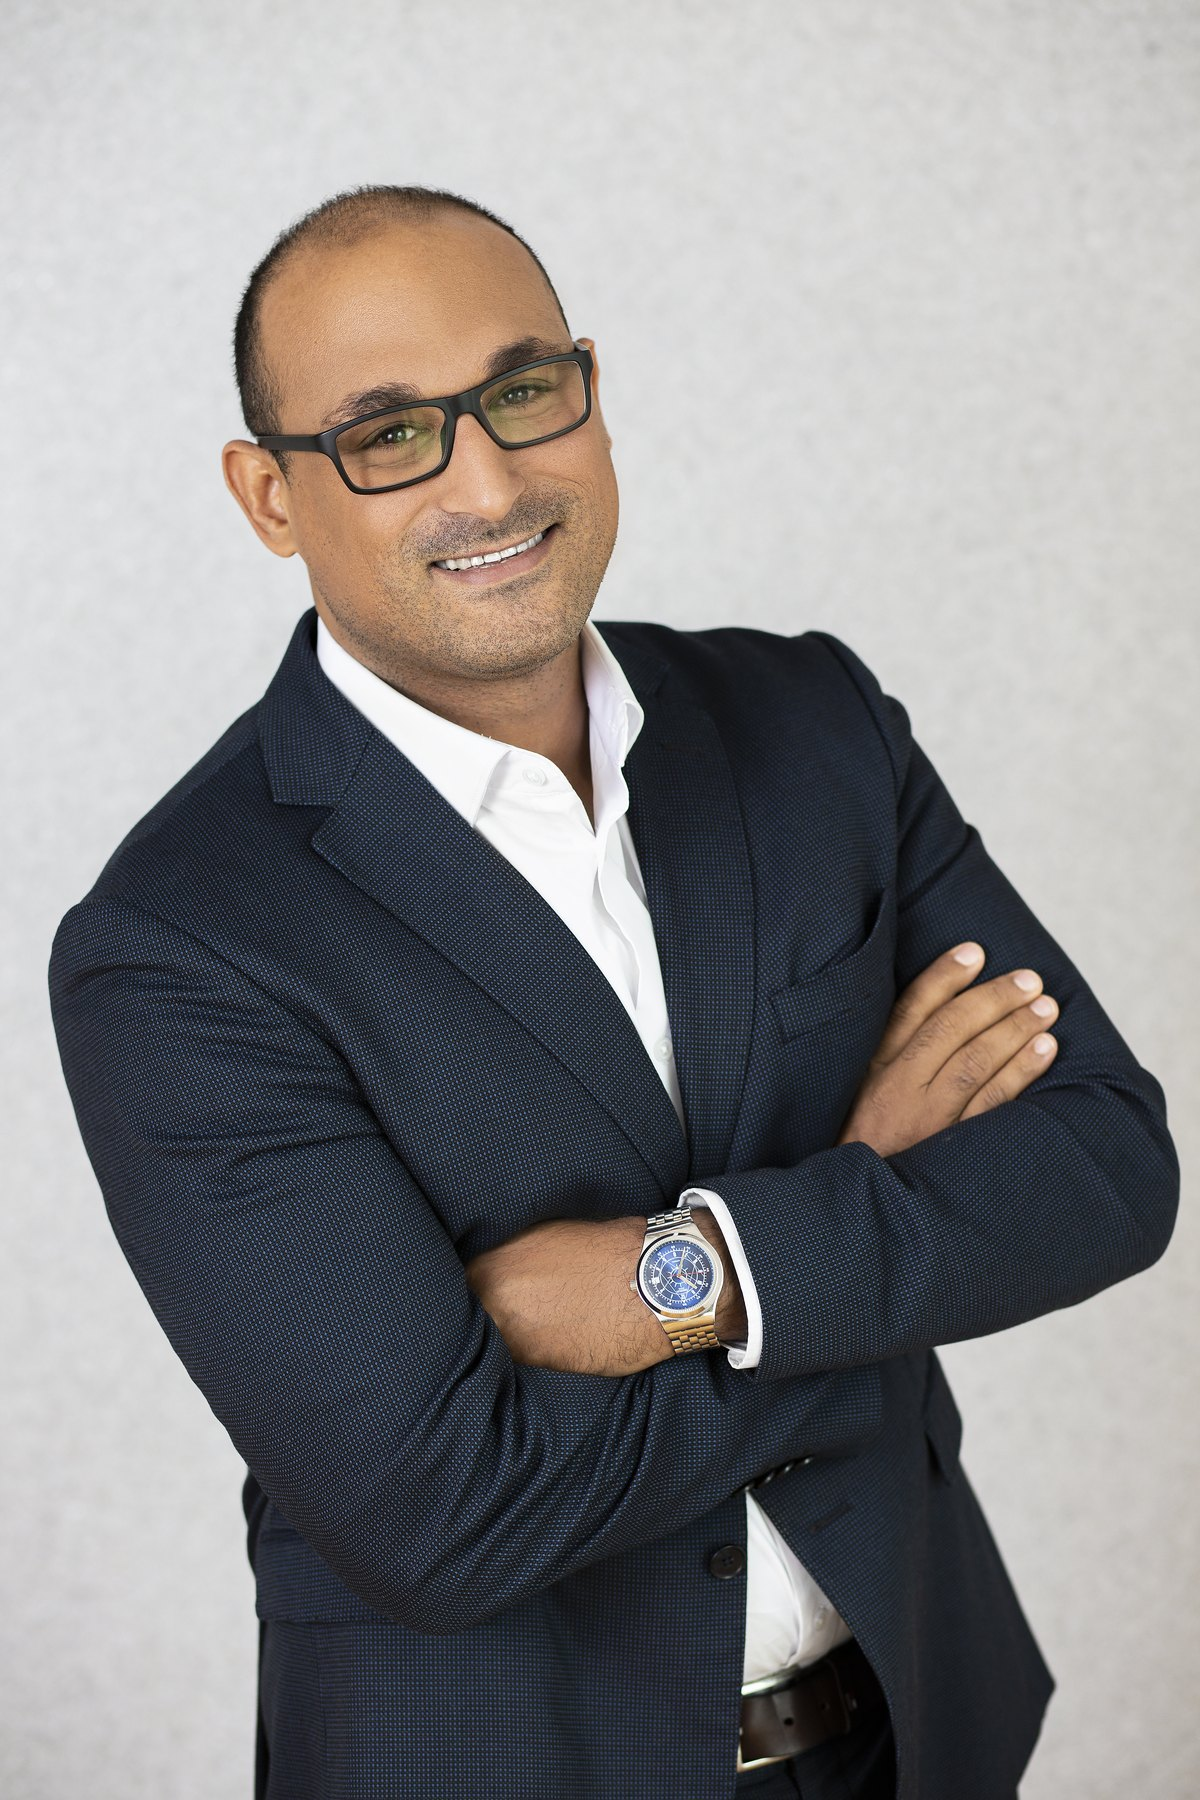
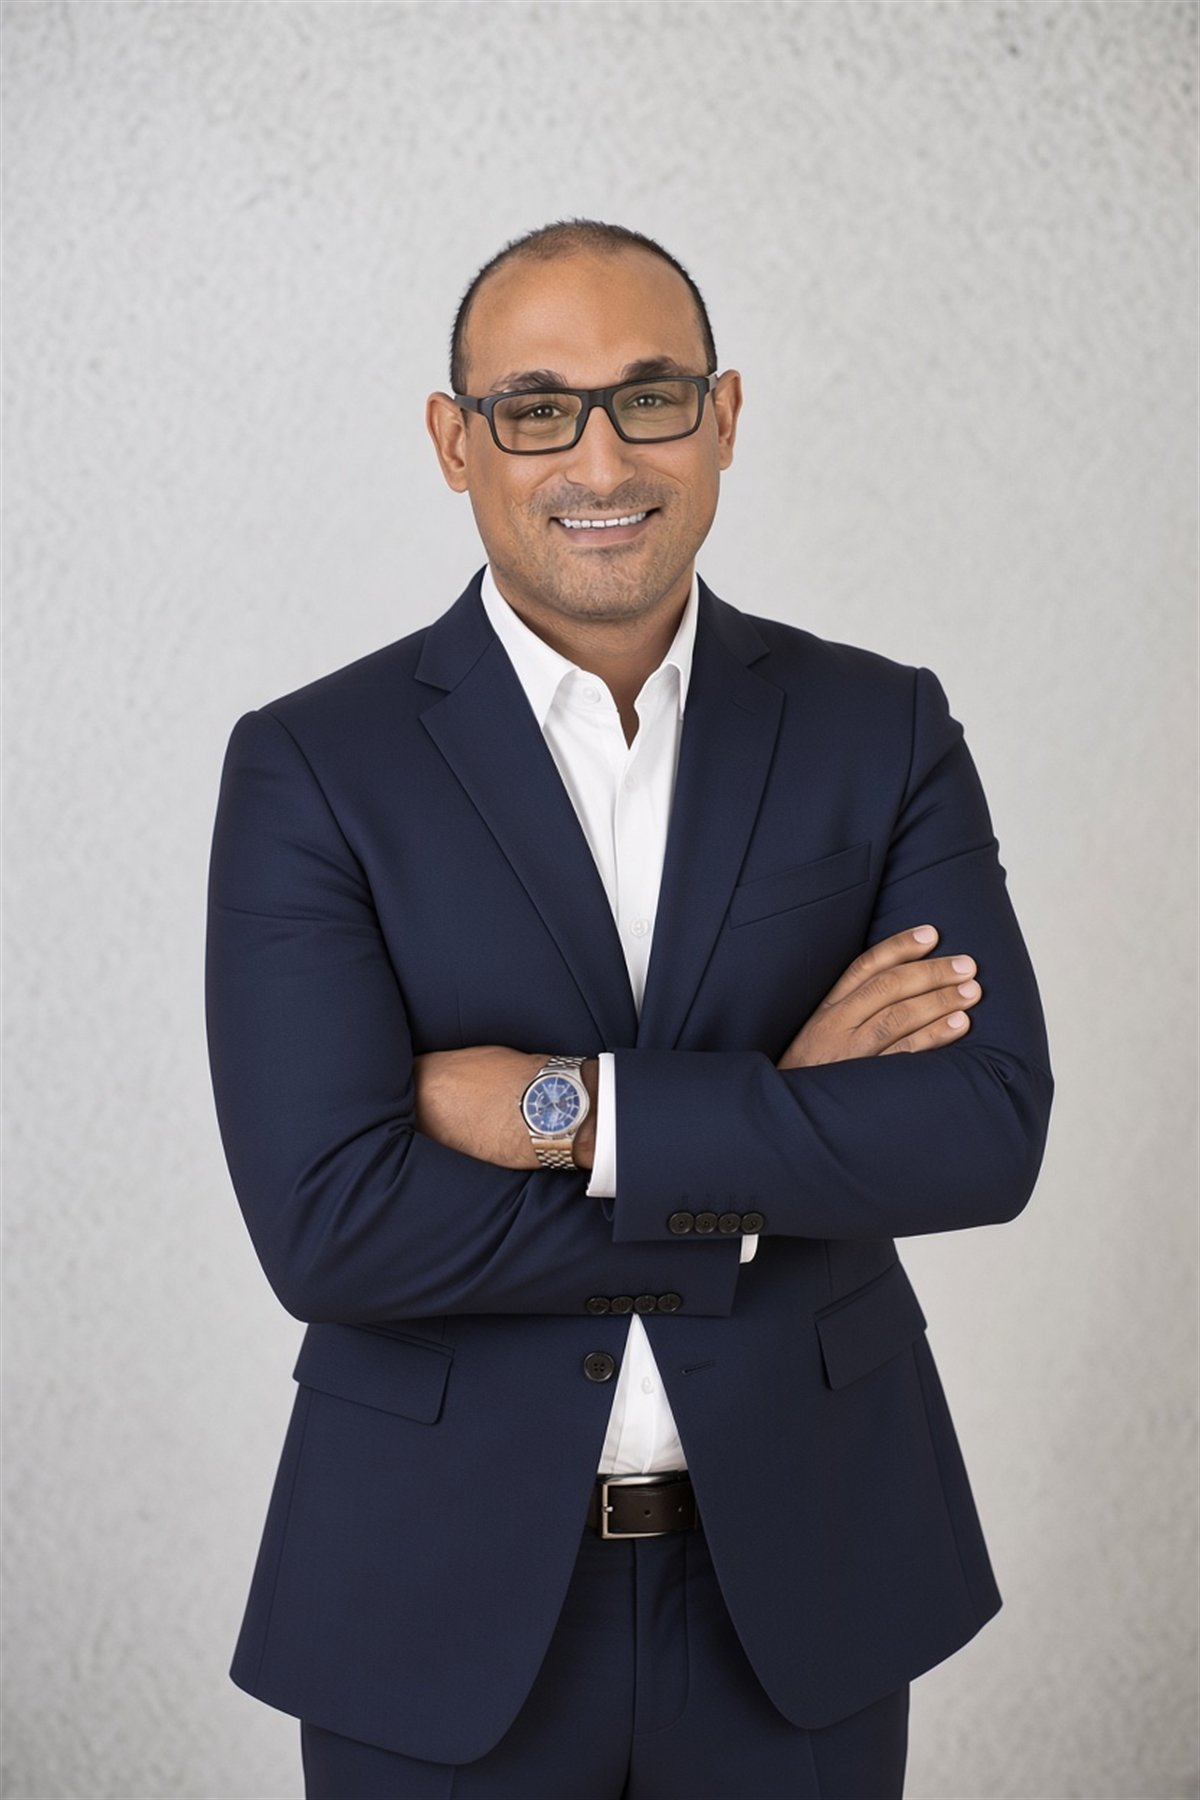
Gründerportrait: KI-generiertes Bild (Grok) ersetzt Foto Anna Seibel
Beide srcset-Fassungen (800/1200) aus der 832×1248-Quelle neu erzeugt
(2:3 unverändert, 1200er ist eine moderate Hochskalierung).
Bildunterschrift ohne Nachweiszeile, Bildnachweis im Impressum
auf KI-Herkunft umgestellt, sprachen.js-Schlüssel nachgezogen (DE/EN/AR).

diff --git a/assets/js/sprachen.js b/assets/js/sprachen.js
@@ -194,7 +194,6 @@
       'Heute verbindet er die Handschrift des Architekten mit eigener Prüftechnik. Sie arbeiten direkt mit ihm, ohne Zwischenebene. Was ein großes Büro über Personal löst, löst das BIT-Atelier über Werkzeuge: eine im Haus entwickelte Prüf-Engine für Kollisionen und AIA-Konformität — statt zugekaufter Lizenzsoftware.':
         'Today he combines the hand of the architect with his own checking technology. You work with him directly, with no layer in between. What a large practice solves with staff, BIT-Atelier solves with tools: an in-house checking engine for clashes and requirements compliance — instead of bought-in licensed software.',
       'Mohamed Elmokadem · Architekt, M.Sc. (TUM) ClimaDesign': 'Mohamed Elmokadem · Architect, M.Sc. (TUM) ClimaDesign',
-      'Foto: Anna Seibel': 'Photo: Anna Seibel',
       'Ausgewählte Stationen': 'Selected positions',
       'Über <em>15 Jahre</em> Planung und Projektleitung.': 'More than <em>15 years</em> of design and project management.',
       'Vom geförderten Wohnungsbau in Nürnberg bis zu Sanierungsprojekten deutscher Institutionen in Kairo.':
@@ -265,9 +264,7 @@
       'Intel-Version <a href="https://github.com/mozzi86/NovaPDF/releases/latest/download/BIT-Nova-PDF-x64.dmg" style="color:var(--accent)">hier</a>.':
         'Intel version <a href="https://github.com/mozzi86/NovaPDF/releases/latest/download/BIT-Nova-PDF-x64.dmg" style="color:var(--accent)">here</a>.',
       'Kostenlos · quelloffen entwickelt im BIT-Atelier · alle Versionen <a href="https://github.com/mozzi86/NovaPDF/releases" style="color:var(--accent)">auf GitHub</a>. Die Apps sind nicht signiert bzw. notarisiert — Windows SmartScreen bzw. macOS Gatekeeper beim ersten Start über „Trotzdem ausführen" / Rechtsklick → „Öffnen" bestätigen.':
-        'Free · developed openly at BIT-Atelier · all releases <a href="https://github.com/mozzi86/NovaPDF/releases" style="color:var(--accent)">on GitHub</a>. The apps are not code-signed or notarised — on first launch confirm through Windows SmartScreen (“Run anyway”) or macOS Gatekeeper (right-click → “Open”).',
-      'Mohamed Elmokadem · Architekt, M.Sc. (TUM) ClimaDesign<br> <span class="nachweis">Foto: Anna Seibel</span>':
-        'Mohamed Elmokadem · Architect, M.Sc. (TUM) ClimaDesign<br> <span class="nachweis">Photo: Anna Seibel</span>'
+        'Free · developed openly at BIT-Atelier · all releases <a href="https://github.com/mozzi86/NovaPDF/releases" style="color:var(--accent)">on GitHub</a>. The apps are not code-signed or notarised — on first launch confirm through Windows SmartScreen (“Run anyway”) or macOS Gatekeeper (right-click → “Open”).'
     },
 
     ar: {
@@ -453,7 +450,6 @@
         'اليوم يجمع بين بصمة المعماري وتقنية تدقيق طوَّرها بنفسه. تعملون معه مباشرة، بلا وسيط. وما يحلُّه مكتب كبير بالكوادر، يحلُّه BIT-Atelier بالأدوات: محرِّك تدقيق مُطوَّر داخلياً للتعارضات ومطابقة المتطلبات — بدلاً من برامج مُرخَّصة مُشتراة.',
       'Mohamed Elmokadem · Architekt, M.Sc. (TUM) ClimaDesign': 'محمد المقدم · مهندس معماري، ماجستير (جامعة ميونخ التقنية) ClimaDesign',
       'Mohamed Elmokadem': 'محمد المقدم',
-      'Foto: Anna Seibel': 'تصوير: Anna Seibel',
       'Ausgewählte Stationen': 'محطات مختارة',
       'Über <em>15 Jahre</em> Planung und Projektleitung.': 'أكثر من <em>15 عاماً</em> في التصميم وإدارة المشاريع.',
       'Vom geförderten Wohnungsbau in Nürnberg bis zu Sanierungsprojekten deutscher Institutionen in Kairo.':
@@ -523,9 +519,7 @@
       'Intel-Version <a href="https://github.com/mozzi86/NovaPDF/releases/latest/download/BIT-Nova-PDF-x64.dmg" style="color:var(--accent)">hier</a>.':
         'نسخة Intel <a href="https://github.com/mozzi86/NovaPDF/releases/latest/download/BIT-Nova-PDF-x64.dmg" style="color:var(--accent)">من هنا</a>.',
       'Kostenlos · quelloffen entwickelt im BIT-Atelier · alle Versionen <a href="https://github.com/mozzi86/NovaPDF/releases" style="color:var(--accent)">auf GitHub</a>. Die Apps sind nicht signiert bzw. notarisiert — Windows SmartScreen bzw. macOS Gatekeeper beim ersten Start über „Trotzdem ausführen" / Rechtsklick → „Öffnen" bestätigen.':
-        'مجاني · مُطوَّر بشكل مفتوح في BIT-Atelier · جميع الإصدارات <a href="https://github.com/mozzi86/NovaPDF/releases" style="color:var(--accent)">على GitHub</a>. التطبيقات غير موقَّعة رقمياً — عند أول تشغيل أكِّد عبر Windows SmartScreen («تشغيل على أي حال») أو macOS Gatekeeper (نقر بالزر الأيمن ← «فتح»).',
-      'Mohamed Elmokadem · Architekt, M.Sc. (TUM) ClimaDesign<br> <span class="nachweis">Foto: Anna Seibel</span>':
-        'محمد المقدم · مهندس معماري، ماجستير (جامعة ميونخ التقنية) ClimaDesign<br> <span class="nachweis">تصوير: Anna Seibel</span>'
+        'مجاني · مُطوَّر بشكل مفتوح في BIT-Atelier · جميع الإصدارات <a href="https://github.com/mozzi86/NovaPDF/releases" style="color:var(--accent)">على GitHub</a>. التطبيقات غير موقَّعة رقمياً — عند أول تشغيل أكِّد عبر Windows SmartScreen («تشغيل على أي حال») أو macOS Gatekeeper (نقر بالزر الأيمن ← «فتح»).'
     }
   };
 

diff --git a/index.html b/index.html
@@ -917,8 +917,7 @@ p{margin:0}
                width="800" height="1200" loading="lazy" decoding="async"
                alt="Mohamed Elmokadem, eingetragener Architekt und Gründer des BIT-Atelier"
                onerror="this.closest('figure').style.display='none'">
-          <figcaption>Mohamed Elmokadem · Architekt, M.Sc. (TUM) ClimaDesign<br>
-            <span class="nachweis">Foto: Anna Seibel</span></figcaption>
+          <figcaption>Mohamed Elmokadem · Architekt, M.Sc. (TUM) ClimaDesign</figcaption>
         </figure>
       </div>
 
@@ -1090,7 +1089,7 @@ p{margin:0}
       </div>
       <div>
       <h3>Bildnachweis</h3>
-      <p>Portraitfotografie: Anna Seibel.</p>
+      <p>Gründerportrait: KI-generiert (Grok, xAI).</p>
 
       <h3>Datenschutz</h3>
       <p>Diese Website setzt keine Cookies und verwendet keine Tracking- oder Analyse-Dienste. Sämtliche Inhalte (Schriftarten, Stylesheets, Icons, Skripte) werden direkt von dieser Domain ausgeliefert &ndash; es werden keine Inhalte von Drittanbietern nachgeladen und keine Besucherdaten an Dritte übermittelt. Beim Aufruf verarbeitet der Hosting-Anbieter (GitHub Pages) die zur Auslieferung technisch notwendigen Verbindungsdaten (insbesondere die IP-Adresse) in seinen Server-Logs. Eine Kontaktaufnahme erfolgt ausschließlich auf Ihre Initiative per Telefon oder E-Mail; die dabei übermittelten Daten verwende ich nur zur Bearbeitung Ihrer Anfrage.</p>
